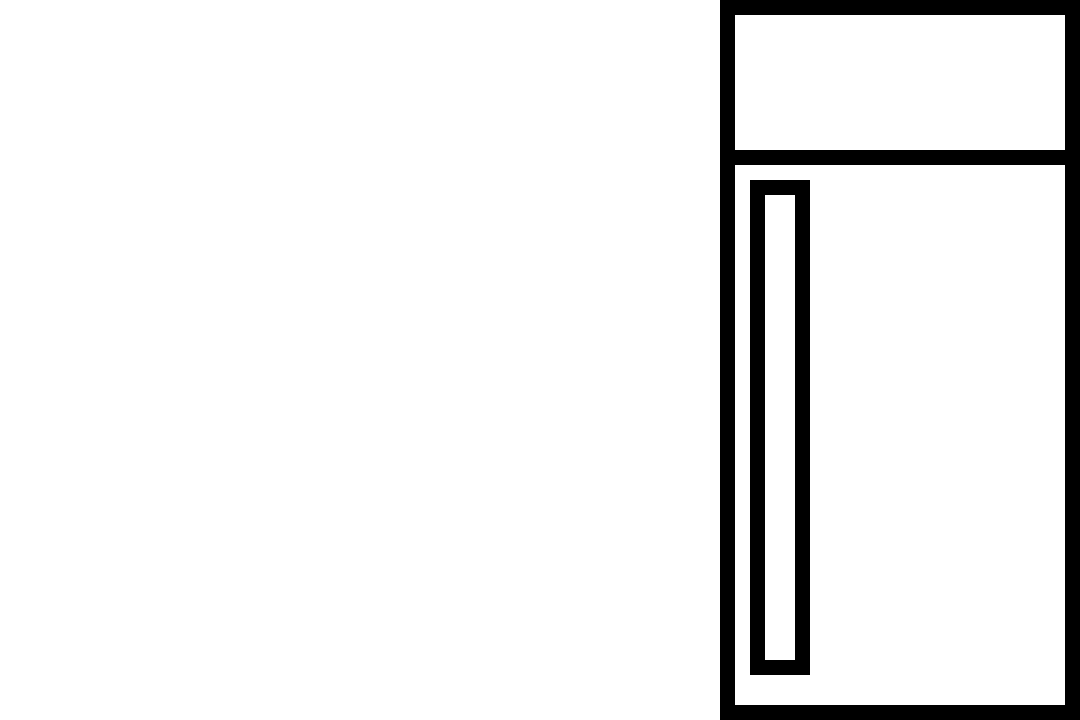
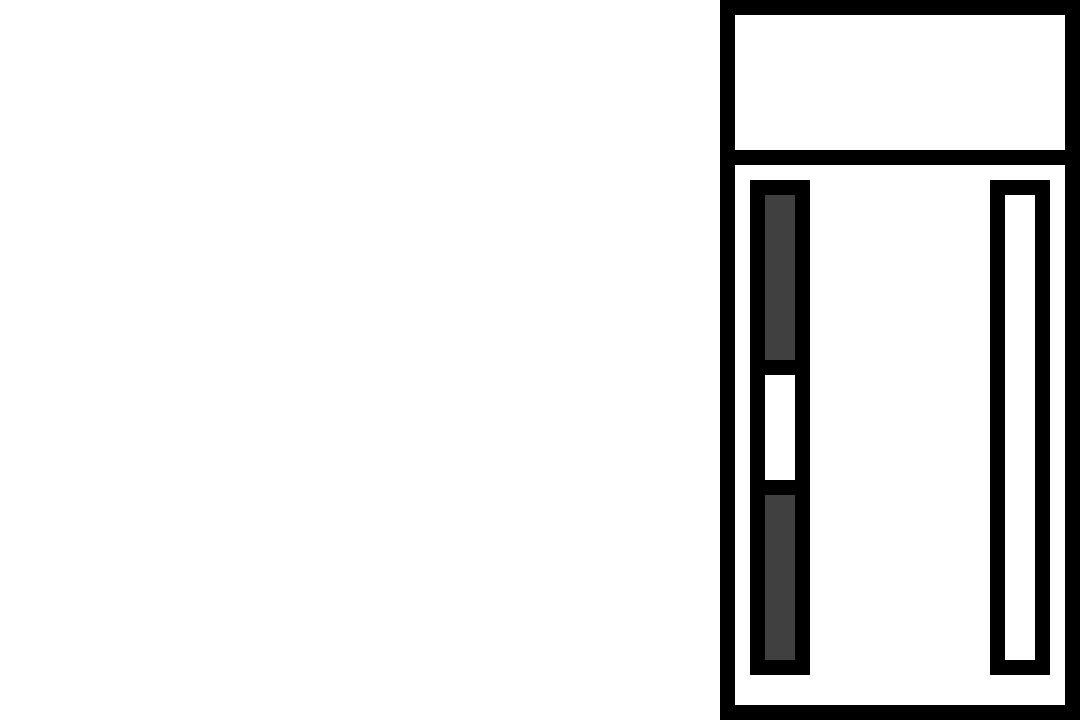
Attack Bar Added
now you cant spam attack

Changed region(s): [[0.9167, 0.2444, 0.9778, 0.9472], [0.7028, 0.6417, 0.7333, 0.9167], [0.7028, 0.2444, 0.7333, 0.5194]]

diff --git a/PlayerClass.py b/PlayerClass.py
@@ -19,6 +19,13 @@ class Player:
         self.appearence = pygame.image.load("Images/character.png")
         self.swordHitZone = (self.playerX + SWORD_HB_OFFSET, self.playerY + SWORD_HB_OFFSET, 80, 80)
         
+        #Attack bar
+        self.allowedBarY = 180
+        self.allowedBarGoingDown = True
+        self.attackAllowedBar = pygame.Rect(750, self.allowedBarY, 59, 30) #No clue what to call this, its the thing that moves up and down, dictating if you can attack
+        self.attackAllowedZone = pygame.Rect(750, 360, 59, 135)
+        self.attackAllowed = False
+        
     def playerMovement(self):
         def moveRight(self):
             if ((keyboard.is_pressed('right') or keyboard.is_pressed('d')) and self.playerX < 690.5):
@@ -84,6 +91,28 @@ class Player:
             
         elif (self.playerHp == 0):
             self.playerHearts = pygame.image.load("Images/blank.png")
+            
+    def allowedBarMovement(self):
+        if ((self.allowedBarY < 645) and self.allowedBarGoingDown):
+            self.allowedBarY += (PLAYER_HITBAR_SPEED * FPS_CAP)
+            self.attackAllowedBar = pygame.Rect(750, self.allowedBarY, 59, 30)
+            
+            if self.allowedBarY > 644:
+                self.allowedBarGoingDown = False
+            
+        elif ((self.allowedBarY > 180) and not self.allowedBarGoingDown):
+            self.allowedBarY -= (PLAYER_HITBAR_SPEED * FPS_CAP)
+            self.attackAllowedBar = pygame.Rect(750, self.allowedBarY, 59, 30)
+            
+            if self.allowedBarY < 181:
+                self.allowedBarGoingDown = True
+    
+    def allowedToAttack(self):
+        if pygame.Rect.colliderect(self.attackAllowedBar, self.attackAllowedZone):
+            self.attackAllowed = True
+            print("attack allowed")
+        else:
+            self.attackAllowed = False
             
             
     def characterHitBoxDraw(self):

diff --git a/Main.py b/Main.py
@@ -46,6 +46,7 @@ def main():
         #Controls
         gamer.playerMovement()
         gamer.focusModeOn()
+        #print(pygame.mouse.get_pos())
         
         #Meeeenu
         screen.blit(menu, (0, 0))
@@ -64,9 +65,10 @@ def main():
         
         pygame.draw.rect(screen,(255, 0, 0), (dummy.eX, dummy.eY, dummy.rectX, dummy.rectY), 2)
         
-        dummy.isPlayerAttack(gamer.swordHitZone)
+        dummy.isPlayerAttack(gamer.swordHitZone, gamer.attackAllowed)
         
         meleeSwordDraw()
+        
         
         # if pygame.Rect.colliderect(dummy.hitbox, gamer.swordHitZone):
         #     print(True)
@@ -82,6 +84,10 @@ def main():
         gamer.drawHealth()
         screen.blit(sideScreen, (0, 0))
         screen.blit(gamer.playerHearts, (0, 0))
+        pygame.draw.rect(screen,(255, 0, 0), (gamer.attackAllowedBar), 2)
+        pygame.draw.rect(screen,(255, 0, 0), (gamer.attackAllowedZone), 2)
+        gamer.allowedBarMovement()
+        gamer.allowedToAttack()
         
         
         clock.tick(60)
@@ -104,3 +110,4 @@ def meleeSwordDraw():
     #screen.blit(sword, (gamer.playerX + SWORD_OFFSET_X, gamer.playerY + SWORD_OFFSET_Y, 2, 30))
     swordRotation = pygame.transform.rotate(sword, angle)
     screen.blit(swordRotation, (swordX - int(swordRotation.get_width() / 2), swordY - int(swordRotation.get_height() / 2)))
+    

diff --git a/EnemyFile.py b/EnemyFile.py
@@ -4,6 +4,7 @@ Create classes for enemies here
 #Imports
 from Constants import *
 from PlayerClass import *
+from Data import *
 
 gamer = Player()
 
@@ -26,13 +27,14 @@ class MeleeType:
         elif (self.eY < playerY):
             self.eY  += (MELEE_E_SPEED * FPS_CAP)
             
-    def isPlayerAttack(self, swordHitZone):
+    def isPlayerAttack(self, swordHitZone, attackAllowed):
         if (pygame.Rect.colliderect(self.hitbox, swordHitZone) and self.hitbox.collidepoint(pygame.mouse.get_pos()) and swordHitZone.collidepoint(pygame.mouse.get_pos())):
             m1Press, mMidPress, m2Press = pygame.mouse.get_pressed()
-            if (m1Press):
+            if (m1Press and attackAllowed):
                 print("attacked!")
-        
+                exit()
             
+
     def characterHitBoxUpdate(self):
         self.rectX = 72
         self.rectY = 8

diff --git a/Constants.py b/Constants.py
@@ -7,6 +7,7 @@ FPS_CAP = CLOCK.tick(60)
 
 PLAYER_SPEED = 0.3
 HITBOX_OFFSET = 13
+PLAYER_HITBAR_SPEED = 1
 
 SWORD_OFFSET_X = 19.5
 SWORD_OFFSET_Y = 19

diff --git a/Data.py b/Data.py
@@ -1,0 +1,4 @@
+'''
+Some data stuff
+'''
+import pygame
